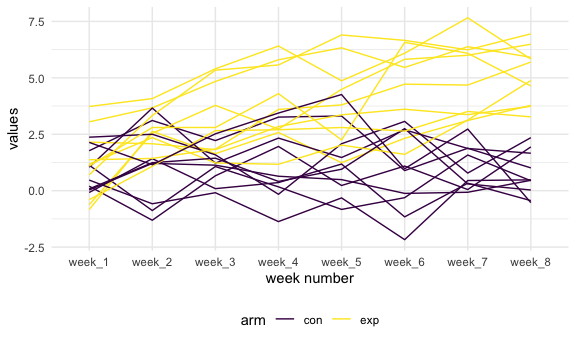
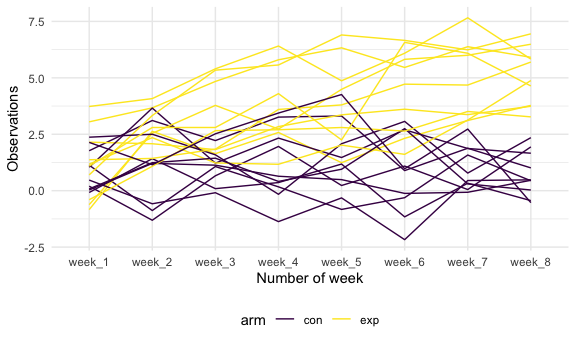
Final touches...

Changed region(s): [[0.4375, 0.7826, 0.625, 0.8406], [0.0, 0.2319, 0.0312, 0.4928]]

diff --git a/p8105_hw5_gb2685.md b/p8105_hw5_gb2685.md
@@ -383,8 +383,8 @@ long_study
 long_study %>%
 ggplot( aes(week_number, observation, group = paste(subject_id, arm), color = arm)) + geom_line() +
 labs (
-  x = "week number",
-  y = "values"
+  x = "Number of week",
+  y = "Observations"
 )
 ```
 
